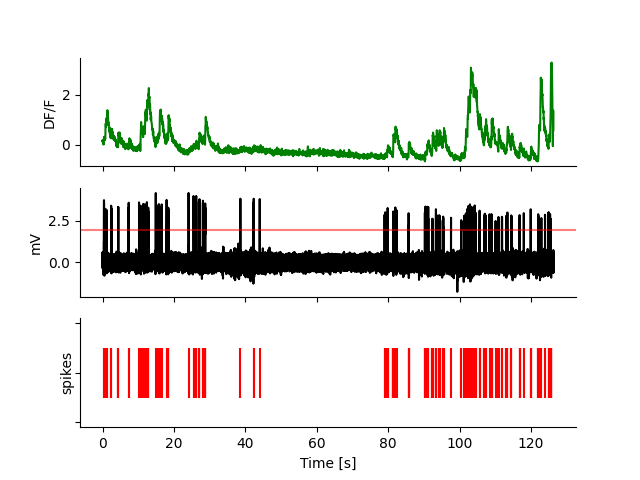
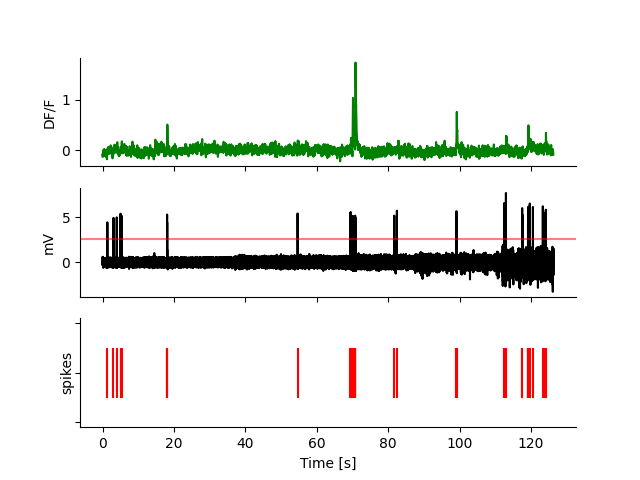
add func to get data from files list

diff --git a/src/load_data.py b/src/load_data.py
@@ -15,9 +15,7 @@ in the Allen Brain Observatory (i.e., noise levels typically encountered in popu
 The downsampled calibration dataset is described in Ledochowitsch et al., On the correspondence of electrical 
 and optical physiology in in vivo population-scale two-photon calcium imaging.
 
-Data loaded as .h5 files. Cux2-f (GCaMP6f) file wasn't available. Loaded Emx1-f (GCaMP6f) and Emx1-s (GCaMP6s) datasets.
-
-h5 file contains data structure with
+Data loaded as .h5 files, which contains data structure with
 <KeysViewHDF5 ['dff', 'dte', 'dto', 'ephys_baseline_subtracted', 'ephys_raw', 'genotype', 'quiroga', 'sptimes']>
 
 - dff
@@ -30,49 +28,64 @@ h5 file contains data structure with
 - sptimes
 
 """
+import glob
 import h5py
 from matplotlib import pyplot as plt
 import numpy as np
 import os
 
-wd = os.getcwd()
-filename = "/data/102525.h5"
-h5 = h5py.File(wd+filename,'r')
 
-# Print objects in the h5 datastructure
-print(h5.keys())
+def get_data():
+    # Get current working directory
+    wd = os.getcwd()
+    # List to store names of all .h5 files in the directory
+    data = {}
 
-# Get data from h5 datastructure
-dto = 1.0 * np.array(h5['dto'])
-dte = 1.0 * np.array(h5['dte'])
-quiroga = 1.0 * np.array(h5['quiroga'])
-dff = np.array(h5['dff']).ravel()
-sptimes = np.array(h5['sptimes']).ravel()
-genotype = h5['genotype'][()].decode("utf-8") 
-ephys = np.array(h5['ephys_baseline_subtracted']).ravel()
+    # Get all .h5 files' names
+    path = os.path.join(wd, "data", "*.h5")
+    for file in glob.glob(path):
+        file_name = os.path.split(file)[-1].split(".")[0]
+        # Read h5 file
+        h5 = h5py.File(file,'r')
+        # Get data from h5 datastructure
+        dto = 1.0 * np.array(h5['dto'])
+        dte = 1.0 * np.array(h5['dte'])
+        quiroga = 1.0 * np.array(h5['quiroga'])
+        dff = np.array(h5['dff']).ravel()
+        sptimes = np.array(h5['sptimes']).ravel()
+        genotype = h5['genotype'][()].decode("utf-8") 
+        ephys = np.array(h5['ephys_baseline_subtracted']).ravel()
 
-# Plot and save traces
-fig, ax = plt.subplots(3, 1, sharex=True, sharey=False)
+        # Store data in dict
+        data[file_name] = {"genotype" : genotype, "dff": dff, "ephys": ephys, "dto": dto, "dte": dte, "sptimes": sptimes, "quiroga": quiroga}
+    
+    return (data)
 
-ax[0].plot(np.arange(0, len(dff)*dto, dto), dff, 'g')
-ax[0].set_ylabel('DF/F')
+def plot_func(data_dict):
+    # Get data from dict
+    dto, dte, dff, ephys, sptimes, quiroga = data_dict["dto"], data_dict["dte"], data_dict["dff"], data_dict["ephys"], data_dict["sptimes"], data_dict["quiroga"]
 
-ax[1].plot(np.arange(0, len(ephys)*dte, dte), 1000 * ephys, 'k')
-ax[1].set_ylabel('mV')
-ax[1].axhline(y=1000.0 * quiroga,  color = 'r', alpha = 0.5)
+    # Plot and save traces
+    fig, ax = plt.subplots(3, 1, sharex=True, sharey=False)
 
-ax[2].eventplot(sptimes, orientation='horizontal', lineoffsets=-1, linelengths=0.5, linewidths=None, colors='r', linestyles='solid')
-ax[2].set_ylabel('spikes')
-ax[2].set_xlabel('Time [s]')
-ax[2].tick_params(labelleft=False) 
+    ax[0].plot(np.arange(0, len(dff)*dto, dto), dff, 'g')
+    ax[0].set_ylabel('DF/F')
 
-for axis in ax:
-    axis.spines[['right', 'top']].set_visible(False)
+    ax[1].plot(np.arange(0, len(ephys)*dte, dte), 1000 * ephys, 'k')
+    ax[1].set_ylabel('mV')
+    ax[1].axhline(y=1000.0 * quiroga,  color = 'r', alpha = 0.5)
 
-plt.savefig('traces.png')
+    ax[2].eventplot(sptimes, orientation='horizontal', lineoffsets=-1, linelengths=0.5, linewidths=None, colors='r', linestyles='solid')
+    ax[2].set_ylabel('spikes')
+    ax[2].set_xlabel('Time [s]')
+    ax[2].tick_params(labelleft=False) 
 
-print("dFF trace len", dff.shape)
-print("ephys trace len", ephys.shape)
+    for axis in ax:
+        axis.spines[['right', 'top']].set_visible(False)
 
-print("sampling period, ephys trace ", dte)
-print("sampling period, calcium trace ", dto)
+    plt.savefig('traces.png')
+
+data = get_data()
+first_key = next(iter(data))
+plot_func(data[first_key])
+
